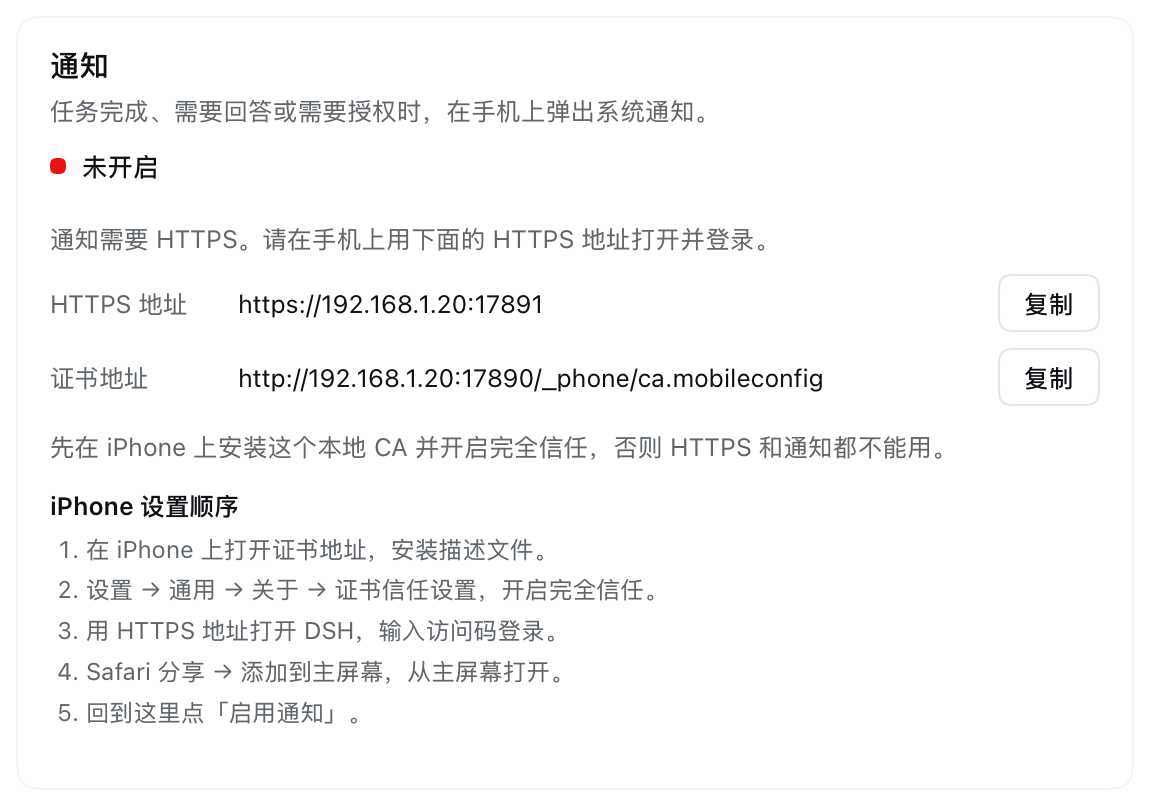
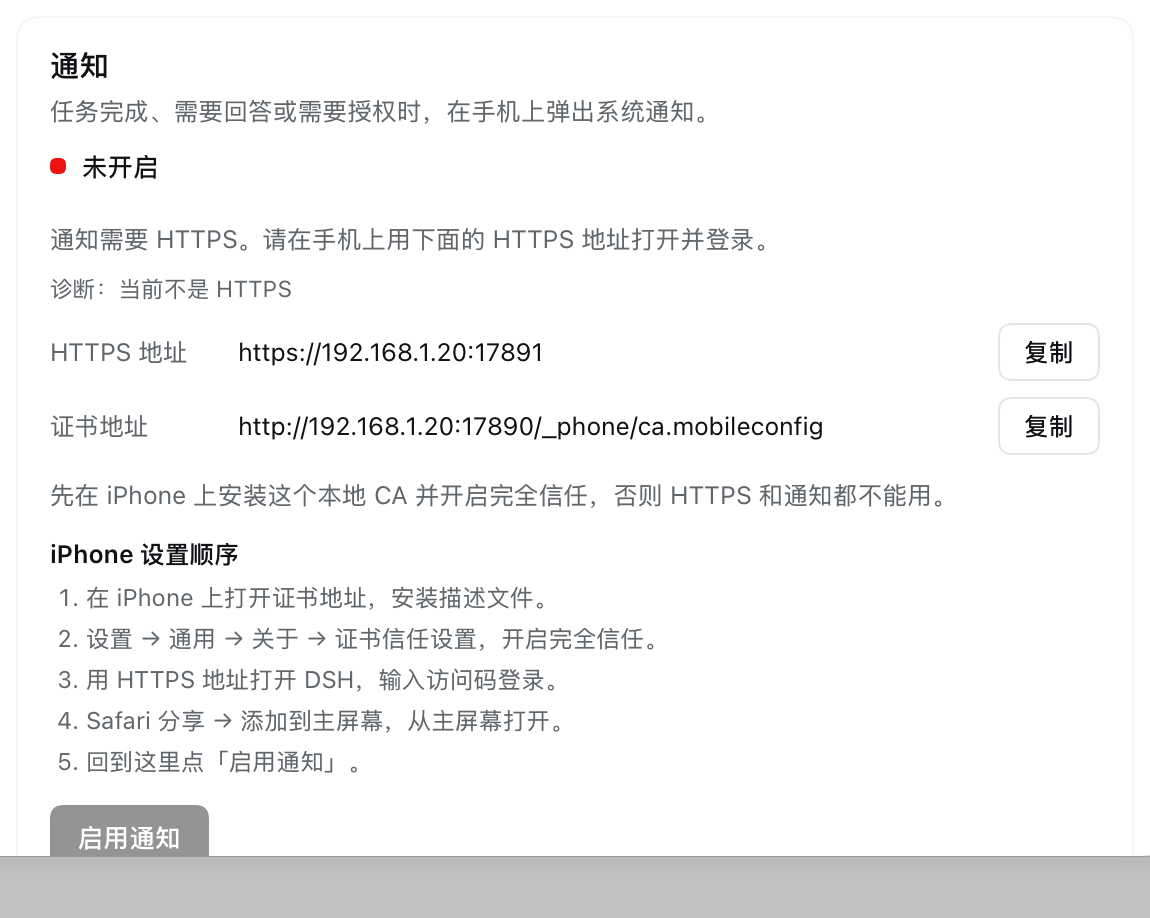
Show the notification enable button with a diagnosis

diff --git a/client.js b/client.js
@@ -51,6 +51,14 @@ window.__ModuleLoader__.load({
         notifyTestSent: '测试通知已发送。',
         notifyNoSubs: '还没有推送订阅，先在手机上启用通知。',
         notifyTestFailed: '测试通知发送失败，请检查推送订阅。',
+        diagLabel: '诊断：',
+        diagReady: '条件已满足',
+        diagNotGateway: '不在手机网关上',
+        diagNotSecure: '当前不是 HTTPS',
+        diagNotStandalone: '不是从主屏幕打开',
+        diagNoPush: '浏览器没有 Push API（iPhone 需 16.4+）',
+        diagHttpsNotReady: 'HTTPS 还没就绪',
+        diagNoVapid: '推送服务没有 VAPID 公钥',
         notifyPermission: '通知权限被拒绝，请到 iPhone 设置 → 通知 → DSH 中允许。',
         notifyRegistered: '本机已订阅，但 Host 没有记录，请点「启用通知」重新登记。',
         notifyNoVapid: '推送服务不可用，缺少 VAPID 公钥。',
@@ -102,6 +110,14 @@ window.__ModuleLoader__.load({
         notifyTestSent: 'Test notification sent.',
         notifyNoSubs: 'No push subscription yet; enable notifications on the phone first.',
         notifyTestFailed: 'The test notification failed; check the push subscription.',
+        diagLabel: 'Diagnosis: ',
+        diagReady: 'all conditions met',
+        diagNotGateway: 'not on the phone gateway',
+        diagNotSecure: 'not HTTPS',
+        diagNotStandalone: 'not opened from the Home Screen',
+        diagNoPush: 'no Push API (iPhone needs 16.4+)',
+        diagHttpsNotReady: 'HTTPS is not ready',
+        diagNoVapid: 'the push service has no VAPID key',
         notifyPermission: 'Notification permission was denied. Allow it in iPhone Settings → Notifications → DSH.',
         notifyRegistered: 'This phone is subscribed, but the Host has no record. Tap Enable notifications to register it again.',
         notifyNoVapid: 'Push service unavailable; the VAPID public key is missing.',
@@ -182,6 +198,7 @@ window.__ModuleLoader__.load({
       },
       notifyMessage: { margin: '10px 0 0', fontSize: 12.5, lineHeight: 1.6, color: 'var(--dsw-alias-label-secondary)' },
       notifyError: { margin: '10px 0 0', fontSize: 12.5, lineHeight: 1.6, color: 'var(--dsw-alias-state-error-primary)' },
+      notifyDiag: { margin: '6px 0 0', fontSize: 11.5, lineHeight: 1.6, color: 'var(--dsw-alias-label-secondary)' },
     }
 
     function urlBase64ToUint8Array(base64String) {
@@ -212,8 +229,14 @@ window.__ModuleLoader__.load({
         const caUrl = typeof data?.caProfileUrl === 'string' ? data.caProfileUrl : ''
         const count = typeof data?.pushSubscriptions === 'number' ? data.pushSubscriptions : 0
         const ready = data?.httpsReady === true
-        const canEnable = gateway && secure && supported && ready && (!ios || standalone)
-          && typeof data?.vapidPublicKey === 'string'
+        const blockers = []
+        if (!gateway) blockers.push(t('diagNotGateway'))
+        if (!secure) blockers.push(t('diagNotSecure'))
+        if (ios && !standalone) blockers.push(t('diagNotStandalone'))
+        if (!supported) blockers.push(t('diagNoPush'))
+        if (!ready) blockers.push(t('diagHttpsNotReady'))
+        if (typeof data?.vapidPublicKey !== 'string') blockers.push(t('diagNoVapid'))
+        const canEnable = blockers.length === 0
 
         React.useEffect(() => {
           if (!gateway || !secure || !supported) return undefined
@@ -338,6 +361,8 @@ window.__ModuleLoader__.load({
           gateway && secure && !supported ? h('p', { style: styles.notifyMessage }, t('notifyUnsupported')) : null,
           subscribed && count === 0 ? h('p', { style: styles.notifyMessage }, t('notifyRegistered')) : null,
           data?.pushError ? h('p', { style: styles.notifyError }, `${t('notifyError')}：${data.pushError}`) : null,
+          h('p', { style: styles.notifyDiag },
+            `${t('diagLabel')}${blockers.length === 0 ? t('diagReady') : blockers.join(' · ')}`),
           showSetup
             ? h('div', null,
               h('div', { style: styles.notifyRow },
@@ -382,11 +407,15 @@ window.__ModuleLoader__.load({
             )
             : null,
           h('div', { style: styles.notifyActions },
-            canEnable && (!subscribed || count === 0)
+            (!subscribed || count === 0)
               ? h('button', {
                 type: 'button',
-                style: styles.notifyPrimary,
-                disabled: busy,
+                style: {
+                  ...styles.notifyPrimary,
+                  ...(canEnable ? {} : { opacity: 0.45, cursor: 'not-allowed' }),
+                },
+                disabled: busy || !canEnable,
+                title: blockers.join('；'),
                 onClick: enable,
               }, busy ? t('notifyEnabling') : (subscribed ? t('notifyRegister') : t('notifyEnable')))
               : null,

diff --git a/README.md b/README.md
@@ -68,6 +68,14 @@ the duplicate notification; a test notification bypasses that.
 If Safari refuses to download the profile over HTTP, AirDrop
 `$DSH_HOME/phone-remote-tls/ca.mobileconfig` from the Mac to the phone and install
 it from Files.
+The **Enable notifications** button is always visible on the card. It stays
+disabled, with a one-line diagnosis, until the page is the phone's HTTPS
+gateway, opened from the iPhone Home Screen, and the browser exposes
+`PushManager` (iOS 16.4+). On the computer's own DSH settings the button is
+disabled by design; use the phone. If the diagnosis says "no Push API", the
+iPhone is below iOS 16.4 or the page is not the Home Screen app, and Web Push
+cannot be enabled from that context.
+
 
 Android Chrome needs the certificate (1), the HTTPS page (3), and the enable step
 (5); the Home Screen step is not required for Web Push.
